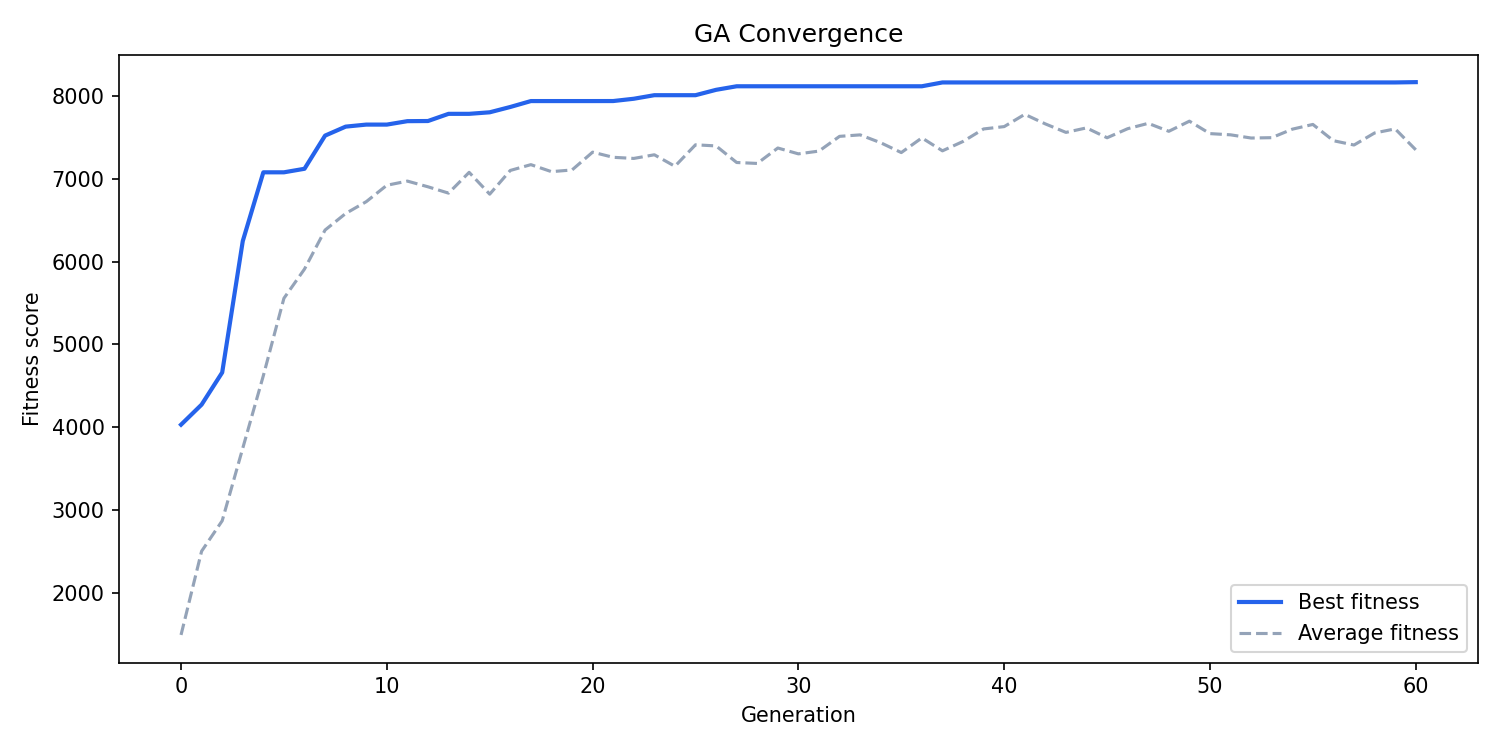
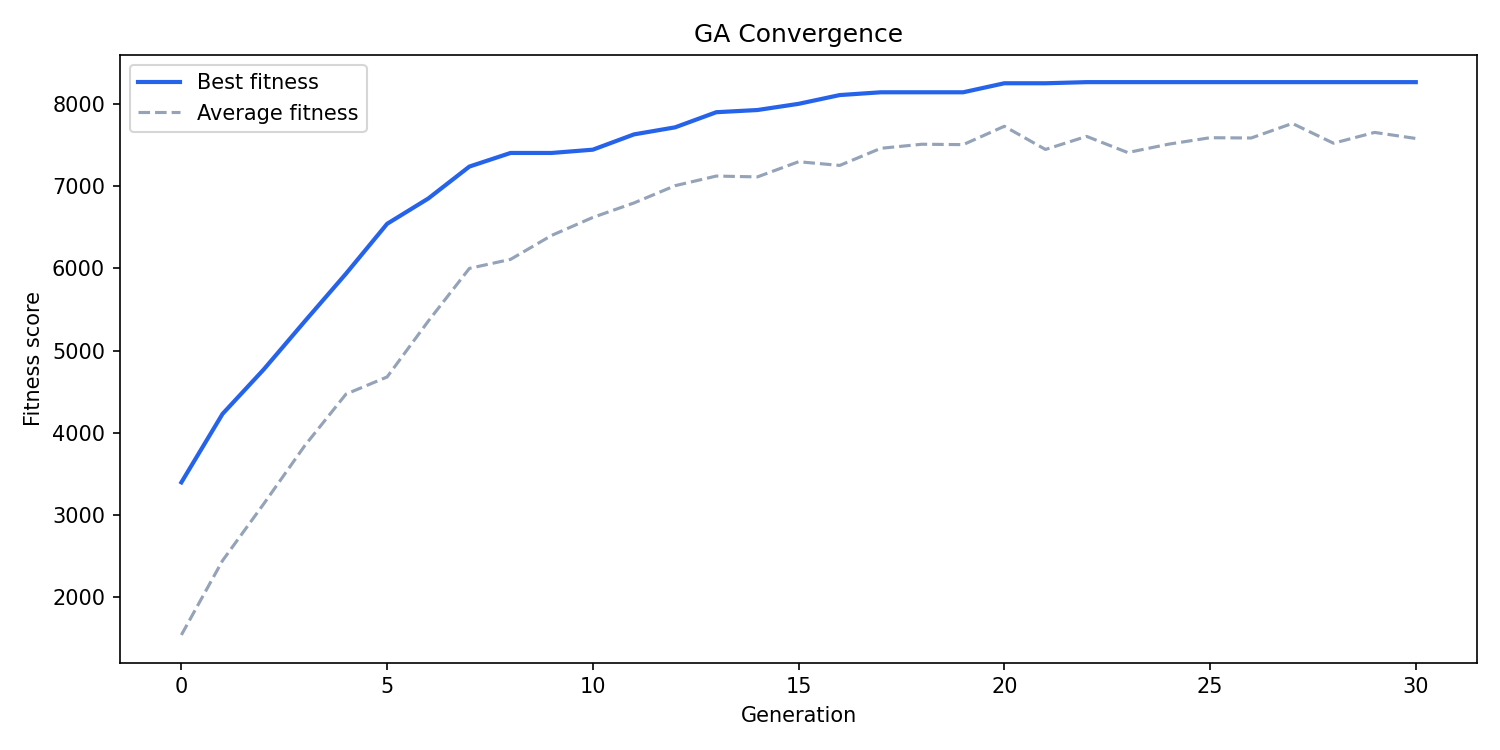
metrics/stats added and tried to change penalise so it doesnt double count but still smae results

diff --git a/state_space_representation.py b/state_space_representation.py
@@ -159,20 +159,19 @@ def penalize_existing_stores(candidate, neighborhoods, existing_stores_gdf, CELL
     nearby_stores = existing_stores_gdf[
         existing_stores_gdf.geometry.distance(candidate_center) <= CELLSIZE
     ]
-    already_served = 0
-    for _, store in nearby_stores.iterrows():
-        store_area = gpd.GeoDataFrame(
-            geometry=[store.geometry.buffer(CELLSIZE)],
-            crs=existing_stores_gdf.crs
-        )
-        store_overlap = gpd.overlay(neighborhoods, store_area, how="intersection")
-        if store_overlap.empty:
-            continue
-        store_overlap["overlap_area"] = store_overlap.geometry.area
-        store_overlap["weight"] = store_overlap["overlap_area"] / store_overlap["orig_area"]
-        already_served += (store_overlap["Total Population"] * store_overlap["weight"]).sum()
+    if nearby_stores.empty:
+        return 0
 
-    return already_served
+    # union all nearby store buffers into one shape so no double-counting
+    combined_area = nearby_stores.geometry.buffer(CELLSIZE).union_all()
+    combined_gdf = gpd.GeoDataFrame(geometry=[combined_area], crs=existing_stores_gdf.crs)
+    store_overlap = gpd.overlay(neighborhoods, combined_gdf, how="intersection")
+    if store_overlap.empty:
+        return 0
+
+    store_overlap["overlap_area"] = store_overlap.geometry.area
+    store_overlap["weight"] = store_overlap["overlap_area"] / store_overlap["orig_area"]
+    return (store_overlap["Total Population"] * store_overlap["weight"]).sum()
 
 candidate_cells = candidates[chromosome == 1].copy()
 candidate_cells["reachable_area"] = candidate_cells.geometry.buffer(CELLSIZE)  
@@ -264,6 +263,146 @@ def fitness_func(chromosome):
        
         total_score += score
     return total_score
+
+## Functions for stats/reporting
+
+# given any geometry, tells you how many people live inside it, how many are low income, and the averages.
+def get_stats_for_area_coverage(coverage_shape):
+    if coverage_shape.is_empty:
+        return {"population": 0, "low_income_pop": 0, "avg_income": 0, "avg_hyp": 0}
+    shape_gdf = gpd.GeoDataFrame(geometry=[coverage_shape], crs=neighborhoods.crs)
+    overlap = gpd.overlay(neighborhoods, shape_gdf, how="intersection")
+
+    overlap["overlap_area"] = overlap.geometry.area
+    overlap["weight"] = overlap["overlap_area"] / overlap["orig_area"]
+
+    # weighted population = neighborhood pop. * fraction of that neighborhood inside the shape
+    weighted_pop = overlap["Total Population"] * overlap["weight"]
+    total_pop = weighted_pop.sum()
+
+    # how many of those people are in low-income neighborhoods
+    low_income_pop = (overlap["Total Population"] * overlap["weight"] * (overlap["Median Household Income"] < 95000)).sum()
+
+    if total_pop > 0:
+        # average income and health of the population covered by the shape, weighted by how much of each neighborhood is covered
+        avg_income = (overlap["Median Household Income"] * weighted_pop).sum() / total_pop
+        avg_hyp = (overlap["Estimate"] * weighted_pop).sum() / total_pop
+    else:
+        avg_income = 0
+        avg_hyp = 0
+
+    return {
+        "population": total_pop,
+        "low_income_pop": low_income_pop,
+        "avg_income": avg_income,
+        "avg_hyp": avg_hyp
+    }
+
+def get_original_boston_stats():
+
+    total_bos_pop = neighborhoods["Total Population"].sum()
+
+    # draw a circle around each existing store and merge it
+    store_areas = [g.buffer(CELLSIZE) for g in stores_gdf.geometry]
+    covered_area = gpd.GeoDataFrame(geometry=store_areas, crs=stores_gdf.crs).union_all()
+
+    # count people in merged area
+    existing = get_stats_for_area_coverage(covered_area)
+
+    # city-wide averages (weighted by population)
+    avg_income = (neighborhoods["Median Household Income"] * neighborhoods["Total Population"]).sum() / total_bos_pop
+    avg_hyp = (neighborhoods["Estimate"] * neighborhoods["Total Population"]).sum() / total_bos_pop
+
+    return {
+        "total_pop": total_bos_pop,
+        "already_served": existing["population"],
+        "covered_area": covered_area,
+        "avg_income": avg_income,
+        "avg_hyp": avg_hyp,
+    }
+
+# evaluate a chromose. What do our 10 new stores actually add. pass in the original
+# boston stat dict so we don't have to recalculate the original coverage every time.
+def evaluate_chromosome(chromosome, original_stats):
+    store_cells = candidates[chromosome == 1].copy()
+    city_avg_hyp = neighborhoods["Estimate"].mean()
+
+    # draw a buffer circle around each of our 10 stores, merge into one shape
+    new_circles = [cell.geometry.buffer(CELLSIZE) for _, cell in store_cells.iterrows()]
+    our_area = gpd.GeoSeries(new_circles, crs=candidates.crs).union_all()
+
+    # new area will subtract the area already covered by existing stores from the area covered by our new stores.
+    new_area = our_area.difference(original_stats["covered_area"])
+    new_coverage = get_stats_for_area_coverage(new_area)
+
+    # check each store: is it in a low-income or high-hypertension zone?
+    low_income_count = 0
+    high_hyp_count = 0
+    per_store = []
+ 
+    for _, cell in store_cells.iterrows():
+        stats = get_stats_for_area_coverage(cell.geometry.buffer(CELLSIZE))
+        is_low_income = stats["avg_income"] < 95000
+        is_high_hyp = stats["avg_hyp"] > city_avg_hyp
+ 
+        if is_low_income:
+            low_income_count += 1
+        if is_high_hyp:
+            high_hyp_count += 1
+ 
+        per_store.append({
+            "cell": cell["cell_idx"],
+            "pop": stats["population"],
+            "income": stats["avg_income"],
+            "hyp": stats["avg_hyp"],
+            "low_income": is_low_income,
+            "high_hyp": is_high_hyp,
+        })
+
+    return {
+        "total_pop": original_stats["total_pop"],
+            "already_served": original_stats["already_served"],
+            "new_people": new_coverage["population"],
+            "low_income_stores": low_income_count,
+            "high_hyp_stores": high_hyp_count,
+            "n_stores": len(store_cells),
+            "new_avg_income": new_coverage["avg_income"],
+            "new_avg_hyp": new_coverage["avg_hyp"],
+            "new_low_income_pop": new_coverage["low_income_pop"],
+            "stores": per_store,
+            "city_avg_income": original_stats["avg_income"],
+            "city_avg_hyp": original_stats["avg_hyp"],
+            }
+
+# finally print function 
+def print_results(r):
+    percent_served = 100 * r["already_served"] / r["total_pop"]
+    percent_new = 100 * r["new_people"] / r["total_pop"]
+ 
+    print(f"boston population: {r['total_pop']:>10,.0f}")
+    print(f"already have a store: {r['already_served']:>10,.0f} ({percent_served:.1f}%)")
+    print(f"new people we reach: {r['new_people']:>10,.0f} ({percent_new:.1f}%)")
+    print(f"people served in total after new placement: {(r['already_served'] + r['new_people']):>10,.0f} ({percent_served + percent_new:.1f}%)")
+    print(f"avg income in boston: ${r['city_avg_income']:>9,.0f}")
+    print(f"avg hypertension in boston: {r['city_avg_hyp']:.2f}") 
+    print()
+    print(f"stores in low-income areas: {r['low_income_stores']} / {r['n_stores']}")
+    print(f"stores in high-hypertension areas: {r['high_hyp_stores']} / {r['n_stores']}")
+    print(f"avg income in new coverage: ${r['new_avg_income']:>9,.0f}")
+    print(f"avg hypertension in new coverage: {r['new_avg_hyp']:.2f}")
+    print()
+    print("per store:")
+    for s in r["stores"]:
+        tags = []
+        if s["low_income"]:
+            tags.append("LOW INCOME")
+        if s["high_hyp"]:
+            tags.append("HIGH HYPERTENSION")
+        tag_str = f"  [{', '.join(tags)}]" if tags else ""
+        print(f"  cell {s['cell']:>3} | pop {s['pop']:>8,.0f} | income ${s['income']:>9,.0f} | hyp {s['hyp']:.2f}{tag_str}")
+
+
+
 
 if __name__ == "__main__":
     score = fitness_func(chromosome)

diff --git a/genetic_algorithm.py b/genetic_algorithm.py
@@ -1,13 +1,13 @@
 import numpy as np
 import matplotlib.pyplot as plt
-from state_space_representation import candidates, neighborhoods, fitness_func, CELLSIZE, n
+from state_space_representation import candidates, neighborhoods, fitness_func, CELLSIZE, n, get_original_boston_stats, evaluate_chromosome, print_results
 import warnings
 warnings.filterwarnings("ignore", category=RuntimeWarning)
 
 # ── config ───────────────────────────────────────────────────────────────────
 N_STORES       = 10
 POP_SIZE       = 50
-N_GENERATIONS  = 60
+N_GENERATIONS  = 30
 ELITE_K        = 5
 TOURNAMENT_K   = 4
 MUTATION_RATE  = 0.7
@@ -150,3 +150,10 @@ if __name__ == "__main__":
     plt.tight_layout()
     plt.savefig("best_placement.png", dpi=150)
     plt.show()
+
+    # print metrics for best chromosome
+    print(f"\n=== final best | score: {best_score:,.0f} ===")
+    og_stats = get_original_boston_stats()  
+    results = evaluate_chromosome(best_chrom, og_stats)  
+    print_results(results)  
+    print(results["new_people"])
